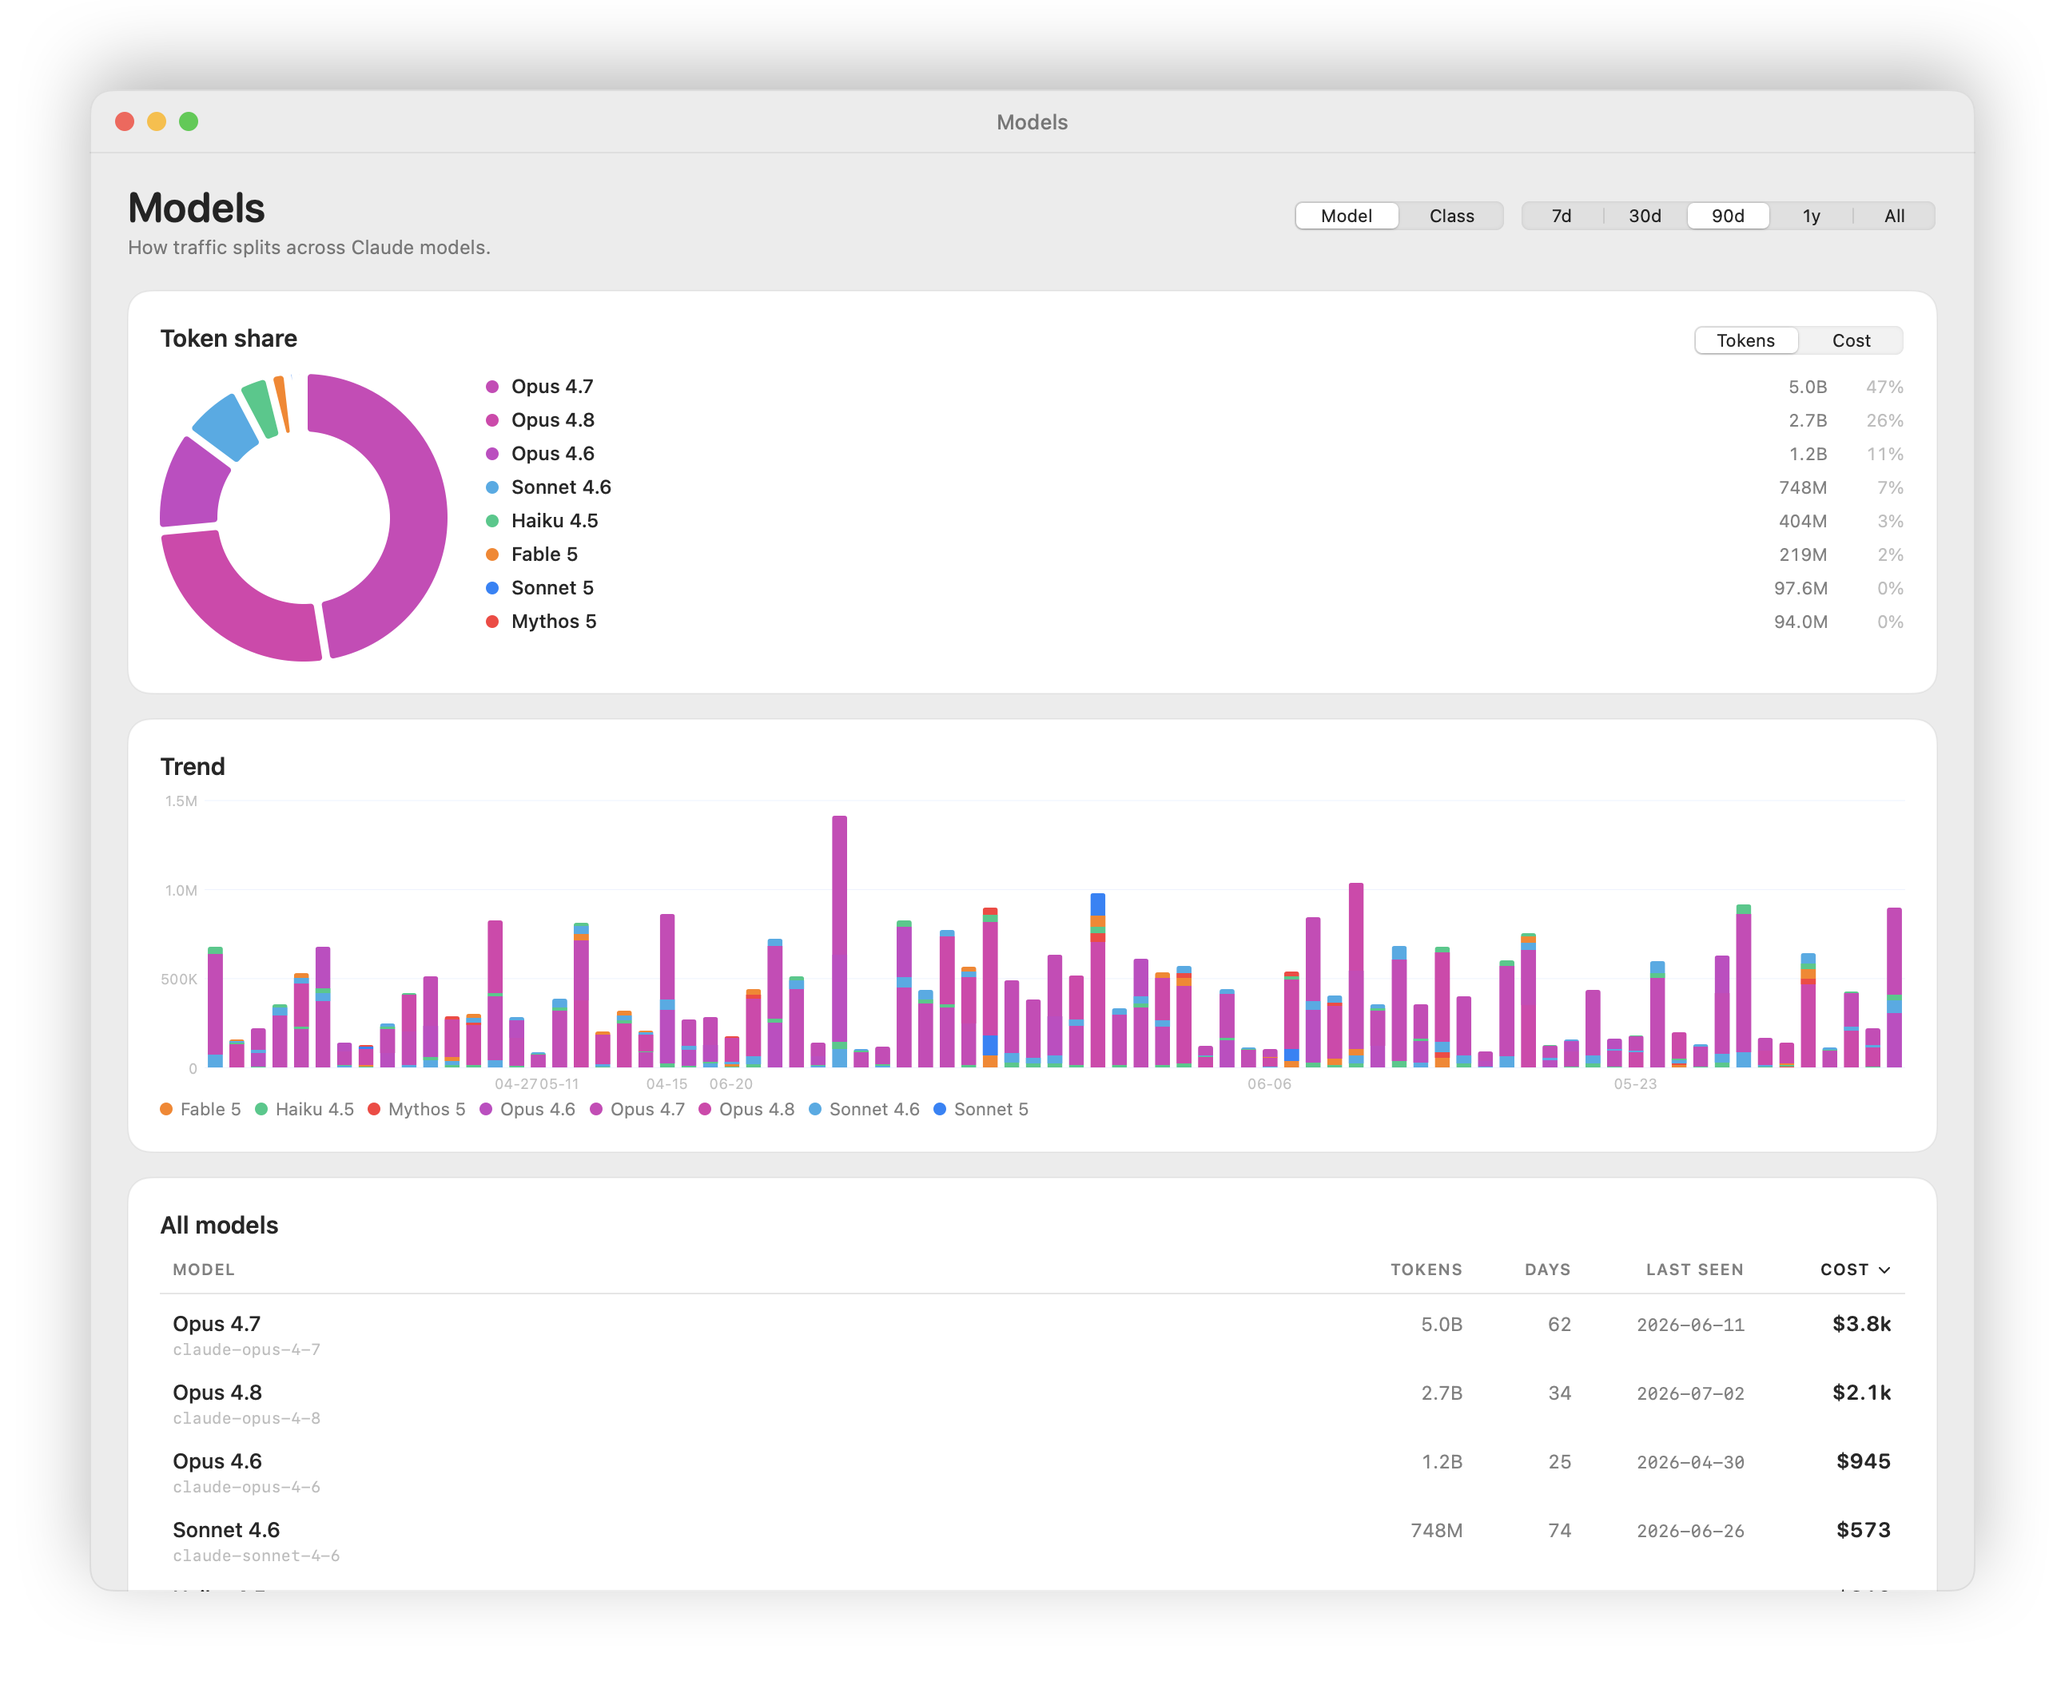
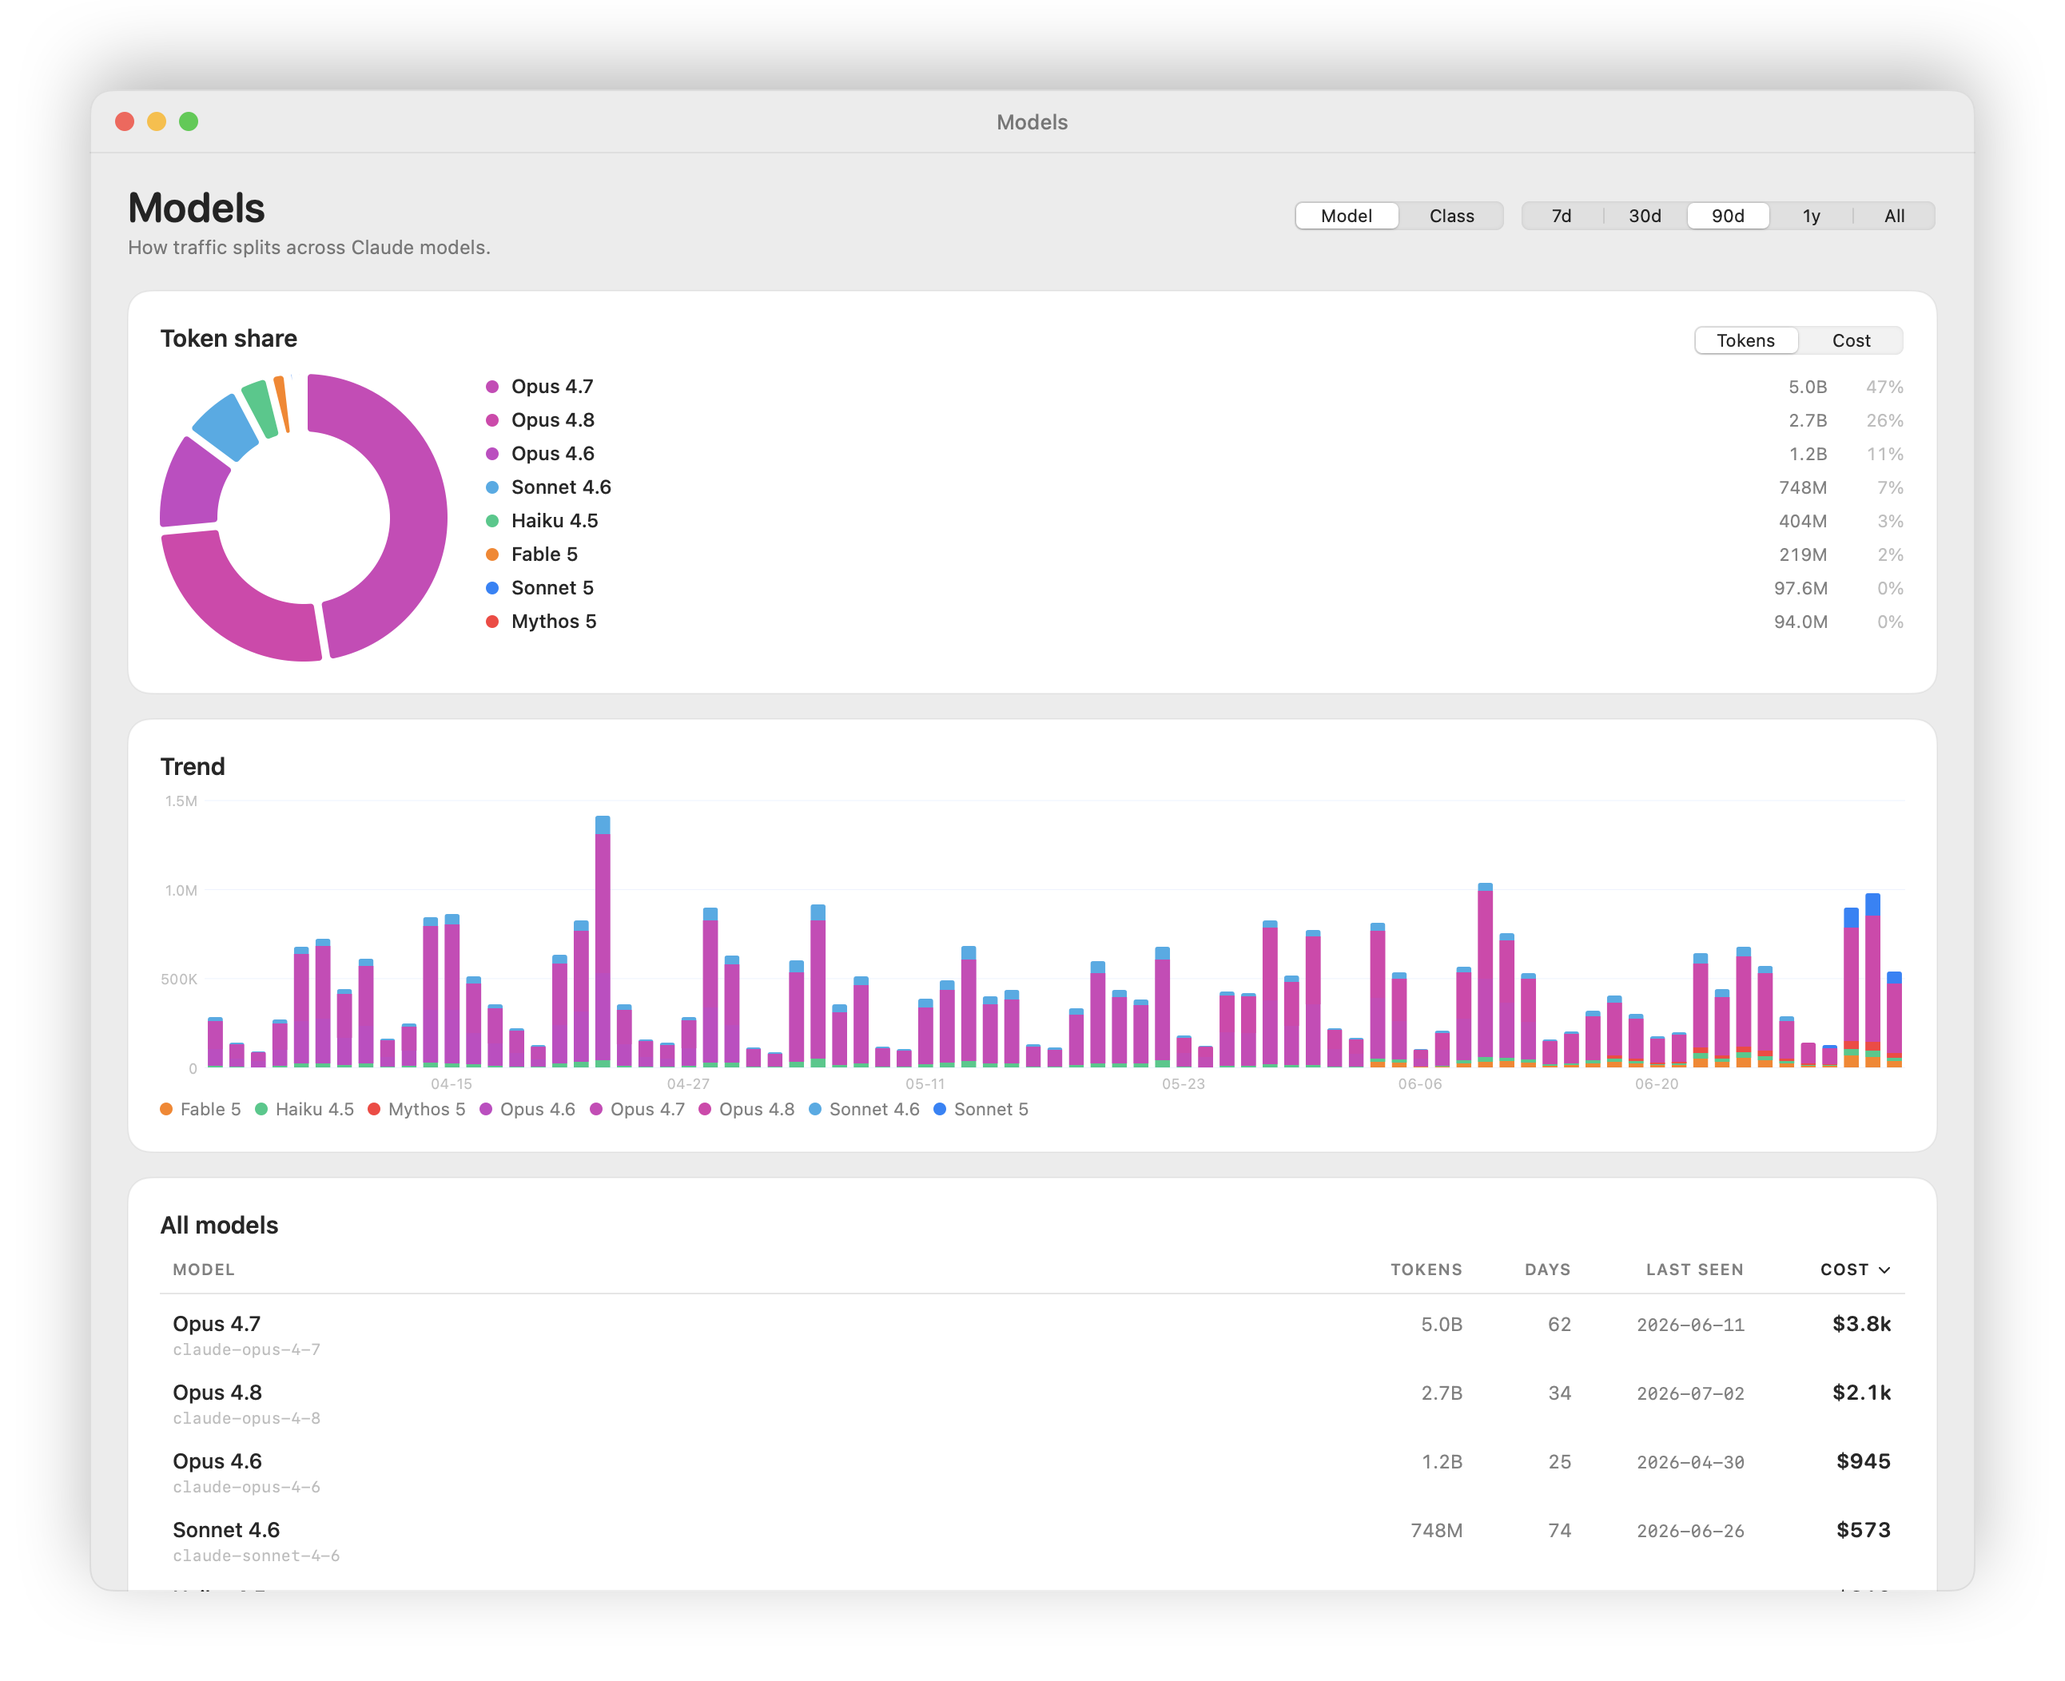
fix(ui): sort Models trend by date + kill redundant view recompute (#113)
* fix(ui): sort Models trend by date so bars/axis stop reshuffling

The Models "Trend" chart plots a categorical (String) x-axis whose band
order Swift Charts takes from the order rows first appear in the plotted
data, and `pacerDateAxis` assumes that band domain is chronological.

Since #112, `dailyMix` was built by mapping over a Dictionary (to fold
per-model rows into per-group buckets), so it came out in hash order,
never sorted. Result: bars sat in an arbitrary order and the sorted
axis-tick dates landed at scrambled positions — labels overlapped and
garbled ("06-105-14"), and every background refresh that rebuilt the
dictionary (crossing a resize boundary) re-laid-out the whole chart with
different-looking data, even with no user interaction.

Sort `dailyMix` by date (then group key) so the axis, its labels, and
the bars stay in stable calendar order. Regenerates models.png.

Claude-Session: https://claude.ai/code/session_0158a8CUqzLBU5S2zaYkT6tX

* perf(ui): stop redundant recompute + tighten sort determinism

Follow-up sweep after the Models-trend sort fix, for the same class of
issue (unsorted/hash-order data and recompute-in-body churn):

- CollectionsManager: resolve the collection rollups ONCE per render
  instead of once per row. `rollups` (which walks every ProjectDailyAggregate
  via resolveAll) was a computed property subscripted inside
  ForEach(collections), so it re-ran the whole walk for each collection —
[…]

Changed region(s): [[0.0929, 0.4943, 0.9288, 0.6488]]

diff --git a/App/Views/PaceChartCard.swift b/App/Views/PaceChartCard.swift
@@ -259,9 +259,10 @@ private struct PaceChartColumn: View {
 
     /// `chartData` plus the forecast overlay — used only by the live dashboard
     /// chart. `chartData` itself stays projection-free so the shared image
-    /// (which renders from it) is unchanged.
-    private var liveChartData: PaceChartView.Data? {
-        guard let base = chartData else { return nil }
+    /// (which renders from it) is unchanged. Takes the already-resolved
+    /// `base` so `body` computes the window filter+sort a single time.
+    private func liveChartData(base: PaceChartView.Data?) -> PaceChartView.Data? {
+        guard let base else { return nil }
         guard let projection else { return base }
         return PaceChartView.Data(
             cycleStart: base.cycleStart,
@@ -275,11 +276,19 @@ private struct PaceChartColumn: View {
     }
 
     var body: some View {
-        VStack(alignment: .leading, spacing: 8) {
-            header
+        // Resolve the chart data ONCE per body pass. Building it filters +
+        // sorts the window's samples (~1–2k on the 7-day window), and it was
+        // previously recomputed independently by the header's compare/share
+        // controls and the chart slot — each `.onHover` toggle re-fires body,
+        // so that was several redundant sorts per hover. `base` stays
+        // projection-free (share-image parity); `live` layers the forecast.
+        let base = chartData
+        let live = liveChartData(base: base)
+        return VStack(alignment: .leading, spacing: 8) {
+            header(chartData: base)
             heroLine
             chipRow
-            chartSlot
+            chartSlot(live: live)
             outlookLines
         }
         .frame(maxWidth: .infinity, alignment: .leading)
@@ -387,7 +396,7 @@ private struct PaceChartColumn: View {
     /// Linear/Things idiom): the affordance is there when you reach for it,
     /// invisible when you're just reading the chart.
     @ViewBuilder
-    private var compareButton: some View {
+    private func compareButton(chartData: PaceChartView.Data?) -> some View {
         if let onCompare, cycle?.isAwaiting == false, chartData != nil, projection != nil {
             Button { onCompare(windowKey) } label: {
                 Image(systemName: "chart.xyaxis.line")
@@ -405,7 +414,7 @@ private struct PaceChartColumn: View {
     /// chart as an image — built from the same resolved values the live
     /// chart draws, so the shared image *is* the live chart, blown up.
     /// `nil` (button hidden) when there's no active cycle with data.
-    private var sharePayload: PaceSharePayload? {
+    private func sharePayload(chartData: PaceChartView.Data?) -> PaceSharePayload? {
         guard let chartData,
               let cycle, !cycle.isAwaiting,
               let latest, let resets = latest.resetsAt
@@ -426,8 +435,8 @@ private struct PaceChartColumn: View {
     /// Hover-revealed share button + its preview popover. Lives only when
     /// there's a shareable cycle; the popover anchors here.
     @ViewBuilder
-    private var shareButton: some View {
-        if let payload = sharePayload {
+    private func shareButton(chartData: PaceChartView.Data?) -> some View {
+        if let payload = sharePayload(chartData: chartData) {
             Button { sharing = true } label: {
                 Image(systemName: "square.and.arrow.up")
                     .font(.system(size: 11, weight: .semibold))
@@ -450,7 +459,7 @@ private struct PaceChartColumn: View {
     /// when awaiting. Same vertical footprint either way so the parent
     /// HStack's equal-height layout stays stable.
     @ViewBuilder
-    private var chartSlot: some View {
+    private func chartSlot(live: PaceChartView.Data?) -> some View {
         if cycle?.isAwaiting == true {
             VStack(alignment: .leading, spacing: 4) {
                 Text("Awaiting first sample of new cycle")
@@ -464,8 +473,8 @@ private struct PaceChartColumn: View {
             }
             .frame(maxWidth: .infinity, alignment: .topLeading)
             .frame(height: 96, alignment: .topLeading)
-        } else if let liveChartData {
-            PaceChartView(data: liveChartData, style: .detailed)
+        } else if let live {
+            PaceChartView(data: live, style: .detailed)
                 .frame(height: 96)
         } else if idleUsedPct != nil {
             // A reading exists but no window is anchored yet — nothing to
@@ -491,12 +500,12 @@ private struct PaceChartColumn: View {
         }
     }
 
-    private var header: some View {
+    private func header(chartData: PaceChartView.Data?) -> some View {
         HStack(spacing: 8) {
             Eyebrow(text: title)
             Spacer(minLength: 8)
-            compareButton
-            shareButton
+            compareButton(chartData: chartData)
+            shareButton(chartData: chartData)
             caption
         }
     }

diff --git a/App/Views/TodayDetailsCard.swift b/App/Views/TodayDetailsCard.swift
@@ -21,7 +21,11 @@ struct TodayDetailsCard: View {
     private var totals: Totals { Totals(rows: aggregates) }
 
     var body: some View {
-        PacerCard("Today's traffic", trailing: {
+        // Fold the day's rows once per render, not once per tile — `totals`
+        // is a computed property read ~a dozen times across the grid and
+        // cache line below.
+        let totals = totals
+        return PacerCard("Today's traffic", trailing: {
             Text(TokenSample.formatDate(Date()))
                 .font(.system(size: 11, design: .monospaced))
                 .foregroundStyle(.secondary)
@@ -32,9 +36,9 @@ struct TodayDetailsCard: View {
                     .foregroundStyle(.secondary)
             } else {
                 VStack(alignment: .leading, spacing: 18) {
-                    metricGrid
+                    metricGrid(totals)
                     if totals.cacheReadTokens > 0 {
-                        cacheRatio
+                        cacheRatio(totals)
                     }
                 }
             }
@@ -43,7 +47,7 @@ struct TodayDetailsCard: View {
 
     /// Four-up tile row: input, output, cache read, models. Wraps to
     /// 2x2 on narrow widths via `LazyVGrid`.
-    private var metricGrid: some View {
+    private func metricGrid(_ totals: Totals) -> some View {
         LazyVGrid(
             columns: Array(
                 repeating: GridItem(.flexible(), spacing: 16, alignment: .topLeading),
@@ -79,7 +83,7 @@ struct TodayDetailsCard: View {
     /// times each written token paid off), and the dollar value the
     /// cache saved vs a hypothetical no-cache day.
     @ViewBuilder
-    private var cacheRatio: some View {
+    private func cacheRatio(_ totals: Totals) -> some View {
         let r = totals.cacheHitRate
         let pctText = String(format: "%.1f%%", r * 100)
         let savings = totals.cacheSavingsUSD(snapshot: SampleCostCache.current())

diff --git a/PacerCore/Sources/PacerUI/SessionsTable.swift b/PacerCore/Sources/PacerUI/SessionsTable.swift
@@ -54,22 +54,27 @@ public struct SessionsTable: View {
     private static let scrollMaxHeight: CGFloat = 320
 
     public var body: some View {
-        VStack(alignment: .leading, spacing: 4) {
+        // Sort once per body eval — `sortedRows` is read up to four times
+        // below, and a parent's un-debounced donut-hover `@State` re-fires
+        // this body on every pointer tick, so recomputing the sort inline
+        // would re-sort the whole list several times per hover frame.
+        let visibleRows = sortedRows
+        return VStack(alignment: .leading, spacing: 4) {
             header
             Divider().padding(.vertical, 2)
-            if sortedRows.isEmpty {
+            if visibleRows.isEmpty {
                 Text("No sessions in scope.")
                     .font(.system(size: 11))
                     .foregroundStyle(.tertiary)
                     .padding(.vertical, 8)
-            } else if sortedRows.count <= Self.inlineRowThreshold {
-                ForEach(sortedRows, id: \.sessionId) { row in
+            } else if visibleRows.count <= Self.inlineRowThreshold {
+                ForEach(visibleRows, id: \.sessionId) { row in
                     rowView(row)
                 }
             } else {
                 ScrollView {
                     LazyVStack(alignment: .leading, spacing: 0) {
-                        ForEach(sortedRows, id: \.sessionId) { row in
+                        ForEach(visibleRows, id: \.sessionId) { row in
                             rowView(row)
                         }
                     }

diff --git a/App/Views/ModelsView.swift b/App/Views/ModelsView.swift
@@ -364,9 +364,18 @@ private struct ModelsContent: View {
             e.tokens += r.inputTokens + r.outputTokens
             mix[dk] = e
         }
-        let dailyMix: [DailyMix] = mix.map { (dk, v) in
-            DailyMix(date: dk.date, model: dk.key, displayName: v.label, tokens: v.tokens)
-        }
+        // `mix` is a Dictionary, so `.map` yields hash order. The trend
+        // chart plots a categorical (String) x-axis, whose band order Swift
+        // Charts takes from the order rows first appear here — and
+        // `pacerDateAxis` assumes that band domain is chronological. Sort by
+        // date (then group key) so the axis, its labels, and the bars stay
+        // in a stable calendar order instead of reshuffling every time a
+        // background refresh rebuilds the dictionary.
+        let dailyMix: [DailyMix] = mix
+            .map { (dk, v) in
+                DailyMix(date: dk.date, model: dk.key, displayName: v.label, tokens: v.tokens)
+            }
+            .sorted { $0.date != $1.date ? $0.date < $1.date : $0.model < $1.model }
         var buckets: [String: [(model: String, tokens: Int64)]] = [:]
         for entry in dailyMix {
             buckets[entry.date, default: []].append(

diff --git a/App/Views/ProjectsView.swift b/App/Views/ProjectsView.swift
@@ -416,7 +416,14 @@ private struct ProjectsContent: View {
         )
         cachedCollectionRollups = CollectionUsageRollup
             .resolveAll(collections: collections, aggregates: aggregates)
-            .sorted { $0.totals.cost > $1.totals.cost }
+            // Stable tiebreaker on the collection id so two equal-cost
+            // collections don't swap order (and reshuffle the filter chips)
+            // between scan ticks — Swift's sort isn't guaranteed stable.
+            .sorted {
+                $0.totals.cost != $1.totals.cost
+                    ? $0.totals.cost > $1.totals.cost
+                    : $0.id < $1.id
+            }
         refreshFilteredRows()
     }
 

diff --git a/App/Views/ProjectDetailView.swift b/App/Views/ProjectDetailView.swift
@@ -208,7 +208,10 @@ struct ProjectDetailView: View {
             }
         }
         cachedTotals = t
-        cachedDailySeries = days
+        // Sort by date explicitly rather than leaning on the `@Query(sort:)`
+        // staying put — the band-date chart that plots this needs a
+        // chronological x-domain (same invariant as the Models trend).
+        cachedDailySeries = days.sorted { $0.date < $1.date }
         cachedModelSlices = byModel.map { (model, v) in
             ModelSlice(model: model, tokens: v.tokens, cost: v.cost)
         }.sorted { $0.tokens > $1.tokens }

diff --git a/App/Views/CollectionsManager.swift b/App/Views/CollectionsManager.swift
@@ -92,9 +92,12 @@ struct CollectionsManager: View {
         .padding(20)
     }
 
-    @ViewBuilder
     private var content: some View {
-        VStack(alignment: .leading, spacing: 16) {
+        // Resolve every collection's rollup ONCE per render. `resolveAll`
+        // walks all aggregates, so subscripting `rollups` inside the
+        // `ForEach` below re-ran that whole walk for every collection row.
+        let rollups = rollups
+        return VStack(alignment: .leading, spacing: 16) {
             HStack {
                 Spacer()
                 Button {
